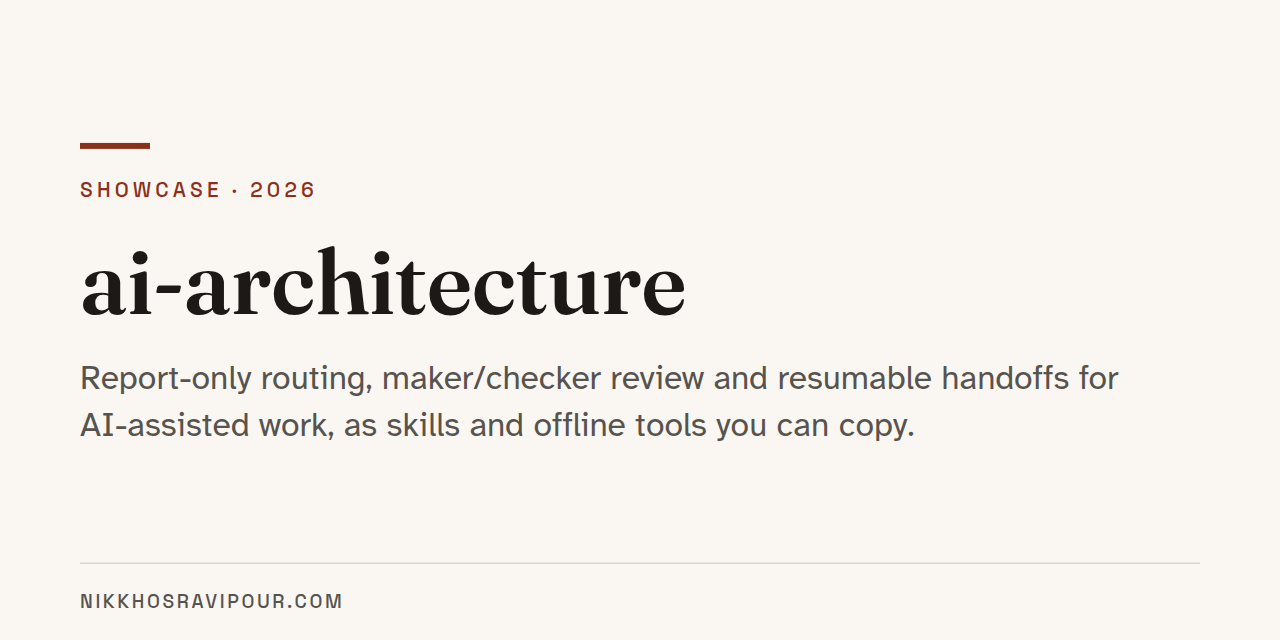
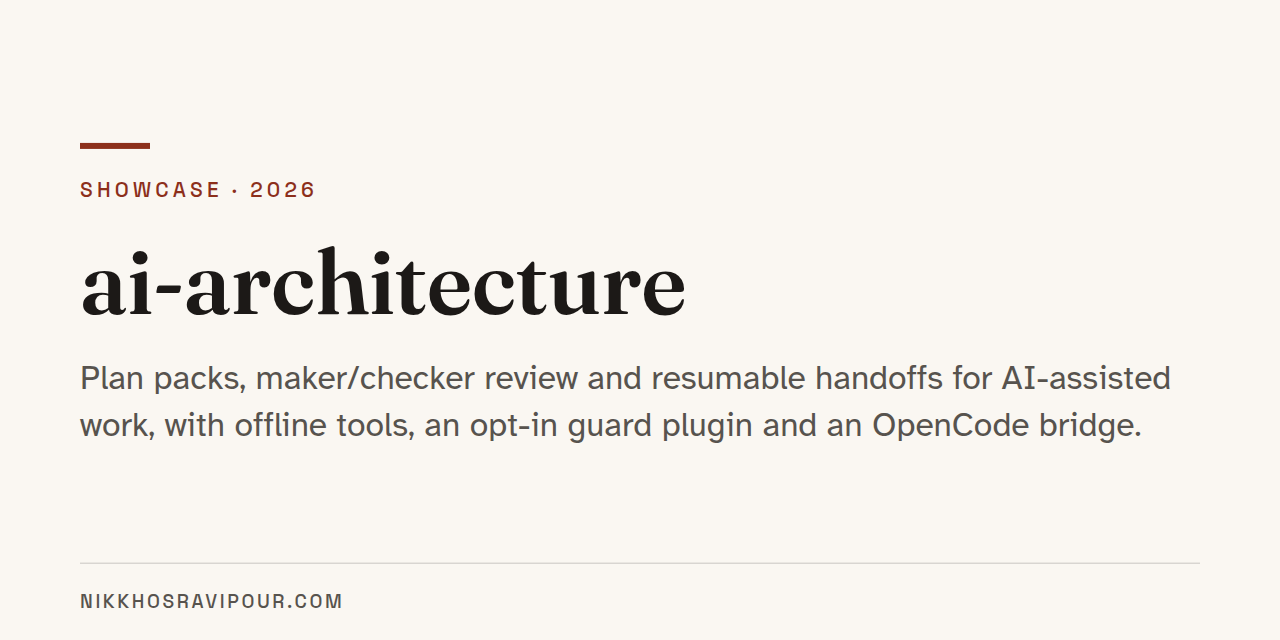
Publish AI Architecture Collection 0.4.1 preview

Changed region(s): [[0.0625, 0.5625, 0.9375, 0.6875]]

diff --git a/plugins/gates/hooks/lib/gates_config.py b/plugins/gates/hooks/lib/gates_config.py
@@ -19,8 +19,10 @@ defaults for everything and records the problem under the "_config_error" key; e
 reports it (the destructive guard denies each Bash call until the file is fixed). A missing
 override file is normal and means "defaults".
 
-The override path must name a regular file (checked with stat, following symlinks): a FIFO,
-device or /dev/stdin is refused as an invalid config, so it cannot swallow the hook payload.
+The override path must name a regular file (checked with stat, following symlinks): a FIFO or
+device is refused as an invalid config. A path that is, or whose final component symlinks to, /dev/std*, /dev/fd/*,
+/proc/<pid>/fd/* or /proc/self/* is refused (checked on the raw path and along the final component's symlink chain, not
+only after realpath), so it cannot swallow the hook payload.
 Hooks read their stdin payload FIRST (init()), and only then load the config.
 
 An unknown top-level key (not starting with "_") is an invalid config too: a misspelled key
@@ -102,11 +104,28 @@ def user_config_path():
     return env
 
 
+_STREAM_RE = re.compile(r"/dev/std(?:in|out|err)\Z|/(?:proc/[^/]+(?:/task/[^/]+)?|dev)/fd(?:/|\Z)|/proc/self(?:/|\Z)|/proc/thread-self(?:/|\Z)")
+
+
+def _is_stream_path(path):
+    """True if the raw path, any hop of the final component's symlink chain, or the final realpath names a standard stream
+    or fd entry (/dev/std*, /dev/fd/*, /proc/<pid>/fd/*, /proc/self/*). realpath alone is not enough:
+    /dev/stdin resolves to whatever file the fd currently points at."""
+    cur, seen = os.path.abspath(path), 0
+    while True:
+        if _STREAM_RE.match(cur) or _STREAM_RE.match(os.path.normpath(cur)):
+            return True
+        if not os.path.islink(cur) or seen > 40:
+            break
+        seen += 1
+        cur = os.path.abspath(os.path.join(os.path.dirname(cur), os.readlink(cur)))
+    return bool(_STREAM_RE.match(os.path.realpath(path)))
+
+
 def _read(path, required):
     """Returns (dict, error). A missing optional file is ({}, None)."""
-    real = os.path.realpath(path)
-    if real.startswith("/dev/std") or re.match(r"/(?:proc/[^/]+(?:/task/[^/]+)?|dev)/fd(?:/|$)", real):
-        return {}, f"config {path} invalid: refers to a standard stream or file descriptor \u2014 fix it"
+    if _is_stream_path(path):
+        return {}, f"config {path} refused: refers to a standard stream or file descriptor \u2014 fix it"
     try:
         st = os.stat(path)
     except FileNotFoundError:

diff --git a/plugins/gates/hooks/bash-destructive-guard.py b/plugins/gates/hooks/bash-destructive-guard.py
@@ -66,6 +66,8 @@ def heredoc_is_sink(prefix, suffix, nxt):
     if MSG_PREFIX_RE.match(prefix) and not suffix.strip(): return True
     return False
 
+class HeredocBackslash(Exception): pass
+
 def strip_heredocs(s):
     # Linear: one pass indexes every line that could terminate a heredoc (by stripped text), then
     # each opener bisects for its first terminator at/after the body start -- no per-opener rescan.
@@ -84,6 +86,11 @@ def strip_heredocs(s):
         j = idx[p]
         nxt = lines[j + 1] if j + 1 < len(lines) else ""
         if heredoc_is_sink(ln[:hd[0]], ln[hd[1]:], nxt):
+            # Unquoted delimiter: bash joins a body line ending in an odd number of backslashes with the
+            # next one before comparing it to the delimiter, so the real body end differs from ours.
+            if not re.search(r"[\"\x27\\]", ln[hd[0] + 2:hd[1]]):
+                for b in lines[i:j]:
+                    if (len(b) - len(b.rstrip("\\"))) % 2: raise HeredocBackslash()
             out.append(lines[j])
             i = j + 1
     return "\n".join(out)
@@ -709,7 +716,12 @@ def run():
         if _ln.endswith("\\") and "<<" in _ln and find_heredoc(_ln):
             emit("deny", "heredoc opener line ends in a backslash (line continuation); the guard cannot parse it -- put the heredoc on one line", cmd)
             return
-    stripped = re.sub(r"\n\s*", "\n", strip_heredocs(cmd))  # collapse newline runs: CMDPOS regexes are quadratic on them
+    try:
+        _sh = strip_heredocs(cmd)
+    except HeredocBackslash:
+        emit("deny", "heredoc body line ends in a backslash (line continuation before the delimiter); the guard cannot parse it -- quote the delimiter or avoid the trailing backslash", cmd)
+        return
+    stripped = re.sub(r"\n\s*", "\n", _sh)  # collapse newline runs: CMDPOS regexes are quadratic on them
     # Line continuations (\<newline>) join into the same command; any OTHER newline is a real
     # command separator (same as ";") and is kept so CMDPOS below still recognizes it.
     joined = re.sub(r"\\\n", " ", deescape(pre_normalize(stripped)))

diff --git a/plugins/gates/tests/run_config_scope.py b/plugins/gates/tests/run_config_scope.py
@@ -181,8 +181,14 @@ for hook, kind in ALL:
 # N2: AIARCH_CONFIG=/dev/stdin must fail closed (the wrapper's stdin is a payload temp file, so it parses as a config with unknown keys).
 j, rc = run_hook("bash-destructive-guard.sh", json.dumps({"tool_name": "Bash", "tool_input": {"command": "ls"}, "cwd": proj}),
                  {"AIARCH_CONFIG": "/dev/stdin"})
-check("N2 AIARCH_CONFIG=/dev/stdin: destructive guard denies as invalid config",
-      (verdict(j), "invalid" in json.dumps(j)), ("deny", True))
+check("N2 AIARCH_CONFIG=/dev/stdin: destructive guard denies as refused (raw-path check)",
+      (verdict(j), "refused" in json.dumps(j)), ("deny", True))
+lnk = os.path.join(tempfile.mkdtemp(), "cfg.lnk")
+os.symlink("/dev/stdin", lnk)
+j, rc = run_hook("bash-destructive-guard.sh", json.dumps({"tool_name": "Bash", "tool_input": {"command": "ls"}, "cwd": proj}),
+                 {"AIARCH_CONFIG": lnk})
+check("N2 AIARCH_CONFIG=symlink->/dev/stdin: denied as refused (symlink-hop check)",
+      (verdict(j), "refused" in json.dumps(j)), ("deny", True))
 fifo = os.path.join(tempfile.mkdtemp(), "cfg.fifo")
 os.mkfifo(fifo)
 j, rc = run_hook("review-stop-gate.py", json.dumps({"stop_hook_active": False}), {"AIARCH_CONFIG": fifo})

diff --git a/tests/test_collection.py b/tests/test_collection.py
@@ -193,7 +193,7 @@ class CollectionTests(unittest.TestCase):
 
     def test_manifest_bad_version(self):
         self.corrupt(
-            ".claude-plugin/plugin.json", "0.4.0-preview", "nonsense", "name/version"
+            ".claude-plugin/plugin.json", "0.4.1-preview", "nonsense", "name/version"
         )
 
     def test_manifest_duplicate_key(self):

diff --git a/scripts/check_collection.py b/scripts/check_collection.py
@@ -73,7 +73,7 @@ ROOT_DIRS = {
 }
 HOME_MARK = "/" + "home" + "/"  # built at runtime so the privacy scan stays clean
 STATES = {"verbatim", "adapted", "re-authored"}
-VERSION = "0.4.0-preview"
+VERSION = "0.4.1-preview"
 
 
 def fail(message):

diff --git a/COVERAGE.md b/COVERAGE.md
@@ -33,7 +33,7 @@ certify the rest of the repository.
 
 
 Execution observations on a local Linux test host, 2026-10-16, for release
-`0.4.0-preview`.
+`0.4.1-preview`.
 These are deterministic checks, not evidence of agent performance or benefits.
 
 All runtime commands below were executed from the collection root.
@@ -52,7 +52,7 @@ strict validator also used the absolute equivalents.
 | Adapter sources | Preparation review supplied official documentation observations dated 2026-10-14; links in adapters | Those pages were not re-fetched for this release. Documentation retrieval is not native behavior verification. |
 | Memory-check fixture | `python3 -B skills/discovery/scripts/test_memory_check.py`: 9 tests, OK (temporary explicit-root clean, drift, incomplete, sorting, strict, immutability, copied-bundle, malformed-link, and symlink-hop cases) | Report-only portable fixture observation. Symlink-hop instrumentation observed no descendant outside-root `lstat`/open for index, wikilink, or configured-path references; this is not a sandbox or race-proof claim. No native memory runtime, index repair, global scan, or gate is ported. |
 | Loop-check fixture | `python3 -B skills/maintenance/scripts/test_loop_check.py`: focused explicit-snapshot tests | Authored JSON only: validates all inventory rows, reports checked/info/drift/unavailable/skipped, and reads no referenced files. `complete` describes snapshot coverage only, not scheduler health, freshness, installation, or live proof. No host probes, scheduling, or remediation are ported. |
-| Gates plugin (opt-in hooks) | `bash plugins/gates/tests/run.sh`: 154 destructive-guard cases, 57 hook tests, 80 configuration-scope tests, 0 failed | Bash test runner replaying recorded hook payloads and transcript fixtures with an empty `HOME`, including a project-level config that tries to loosen a gate. It does not run Claude Code itself: hook payload and transcript formats are as recorded, and a Claude Code update may change them. Static text analysis of commands is a tripwire, not a sandbox. |
+| Gates plugin (opt-in hooks) | `bash plugins/gates/tests/run.sh`: 156 destructive-guard cases, 57 hook tests, 81 configuration-scope tests, 0 failed | Bash test runner replaying recorded hook payloads and transcript fixtures with an empty `HOME`, including a project-level config that tries to loosen a gate. It does not run Claude Code itself: hook payload and transcript formats are as recorded, and a Claude Code update may change them. Static text analysis of commands is a tripwire, not a sandbox. |
 | OpenCode bridge | `bash opencode/tests/run.sh`: agent-generator golden test plus 29 bridge tests under `bun` | The bridge spawns the real gates hooks, including a denied destructive command, symlink and `..` refusals, fail-closed behaviour on a crashed or unreadable hook list, and a Bash classifier allow-list check. The Bash structural check is tested against a **stub parser**: the real `web-tree-sitter` and `tree-sitter-bash` packages are not exercised. Not run against a live OpenCode session. Without `bun` that part prints `NOT RUN`. |
 | Model rotation (opt-in) | `bash opencode/rotation/tests/run.sh`: Claude Code hook tests and the OpenCode module tests, 0 failed (the OpenCode module half runs only with `bun`; without it the runner prints `NOT RUN` for that half) | Seeded weighted draws, fail-safe on invalid pools, no unlisted model ever produced. Rotation is off until you enable it; no quality benefit of rotating models is claimed. |
 | Tools | `plancheck` 19, `gate-check` 8, `memcheck` 48, `loop-sync` 26, `tribunal-scribe` 13 checks, 0 failed (each tool's own test runner) | Fixture-based, offline, Linux. |

diff --git a/README.md b/README.md
@@ -4,7 +4,7 @@
 
 [Install](INSTALL.md) · [Catalog](CATALOG.md) · [Architecture](ARCHITECTURE.md) · [How it works](#how-the-system-works) · [Site](https://nikkhosravipour.com)
 
-[![License: MIT](https://img.shields.io/badge/license-MIT-8c2f1b?style=flat)](LICENSE) [![Docs: CC BY 4.0](https://img.shields.io/badge/docs-CC%20BY%204.0-57534e?style=flat)](LICENSE-docs) [![Version](https://img.shields.io/badge/version-0.4.0--preview-57534e?style=flat)](CHANGELOG.md)
+[![License: MIT](https://img.shields.io/badge/license-MIT-8c2f1b?style=flat)](LICENSE) [![Docs: CC BY 4.0](https://img.shields.io/badge/docs-CC%20BY%204.0-57534e?style=flat)](LICENSE-docs) [![Version](https://img.shields.io/badge/version-0.4.1--preview-57534e?style=flat)](CHANGELOG.md)
 
 I run most of my software and research work through coding agents. Left alone, they drift: the scope widens,
 the agent grades its own homework, a destructive command slips through, and everything it knew dies when the
@@ -17,8 +17,8 @@ flowchart LR
   B --> C["Check<br/>fresh verifier · tribunal<br/>security review"]
   C --> H["Hand off<br/>tracker Resume + Next"]
   H --> P
-  G["Guards (hooks)<br/>destructive commands · model rules<br/>review-before-stop · tracker check"] -. enforce .- B
-  G -. enforce .- C
+  G["Guards (hooks)<br/>destructive commands · model rules<br/>review-before-stop · tracker check"] -. checks .- B
+  G -. checks .- C
 ```
 
 ## How the system works
@@ -42,7 +42,7 @@ changes also get a `security-reviewer` and a **tribunal**: three or more judges 
 sealed, then argue in a shared transcript until they stop finding things. A `refuter` tries to disprove each
 finding before anyone acts on it.
 
-**5. Guards make the rules real.** An opt-in hook plugin is a best-effort tripwire against accidental destructive shell commands (not a security boundary; see its Known limitations), stops a session from
+**5. Guards catch common mistakes.** An opt-in hook plugin is a best-effort tripwire against accidental destructive shell commands (not a security boundary; see its Known limitations), stops a session from
 ending while a required review is missing, and nudges once when a session ends with a tracker that has no current Resume
 block.
 

diff --git a/CHANGELOG.md b/CHANGELOG.md
@@ -1,5 +1,14 @@
 # Changelog
 
+## 0.4.1-preview — 2026-10-16
+
+- Social preview image regenerated with the current tagline (plan packs, maker/checker review, resumable handoffs, offline tools, opt-in guard plugin, OpenCode bridge); the README banners were unchanged.
+- Gates plugin, destructive-command guard: an unquoted-delimiter heredoc whose body has a line ending in an odd number of backslashes is now denied, because bash joins that line with the next one before looking for the delimiter and the guard cannot follow that.
+- Gates plugin, configuration: `AIARCH_CONFIG` is refused when the raw path, any hop of its final component's symlink chain, or the resolved path is `/dev/std*`, `/dev/fd/*`, `/proc/<pid>/fd/*` or `/proc/self/*` (previously only the resolved path was checked, so `/dev/stdin` was not caught). The docstring now matches.
+- Gates plugin, hook wrapper script: the payload copy is opened read-write and unlinked before any data is written, then read back through `/dev/fd/3`, which narrows (does not fully close) the window in which another process of the same user could swap the temp file.
+- README and ARCHITECTURE wording now says guards catch common mistakes and "check" rather than "enforce", consistent with the best-effort tripwire framing.
+- Version bumped to `0.4.1-preview` in the manifests, marketplace, citation file and install guide; the gates test counts in COVERAGE are updated (156 destructive-guard cases, 81 configuration-scope tests).
+
 ## 0.4.0-preview — 2026-10-16
 
 - README and ARCHITECTURE now tour the whole system: plan packs, parallel builds, maker/checker review and tribunal, guard hooks, handoffs, two harnesses, maintenance loops.

diff --git a/WORKFLOWS.md b/WORKFLOWS.md
@@ -163,11 +163,11 @@ offline tools in a fresh temporary project and demonstrates only a fixed, litera
 Next. Its inputs are authored fixtures, not a recipient's real project or an
 AI builder/checker transcript.
 
-## Where the rules are enforced
+## Where the rules are checked
 
-Most of the steps above are instructions an agent follows. Three pieces make some of them real, and only if
-you install them: the [gates plugin](plugins/gates/README.md) (hooks that block destructive commands and
-unreviewed or unrecorded stops), the [OpenCode bridge](opencode/README.md) (the same hooks inside OpenCode)
+Most of the steps above are instructions an agent follows. Three pieces check some of them, and only if
+you install them: the [gates plugin](plugins/gates/README.md) (best-effort hooks that catch common destructive commands and
+unreviewed or unrecorded stops; a tripwire, not a security boundary), the [OpenCode bridge](opencode/README.md) (the same hooks inside OpenCode)
 and opt-in [model rotation](opencode/rotation/README.md). [INSTALL.md](INSTALL.md) says how to turn each on and
 off. Everything else here stays described.
 

diff --git a/ARCHITECTURE.md b/ARCHITECTURE.md
@@ -52,8 +52,8 @@ flowchart TB
   Exec --> Rev
   Rev --> TR
   TR --> RS
-  Guard -. enforce .- Exec
-  Guard -. enforce .- Rev
+  Guard -. checks .- Exec
+  Guard -. checks .- Rev
   Harness --- Exec
   Loops -. report on .- Plan
   Loops -. report on .- Cont
@@ -69,7 +69,7 @@ builder and critic pair.
 Routing is a table, not a mood. A request is classified by task kind and by stakes, and the table says which
 role handles it and what review it owes. A decided, non-UI change goes to the implementer. High-stakes
 changes (cryptography, migrations, concurrency, authorization, money, security boundaries) add a
-security review and a tribunal. Hooks enforce the table where a prompt alone would be forgotten (see
+security review and a tribunal. Hooks check the table where a prompt alone would be forgotten (see
 [section 5](#5-guards)).
 
 In this repo: [`rules/dispatch-router.md`](rules/dispatch-router.md),

diff --git a/INSTALL.md b/INSTALL.md
@@ -1,6 +1,6 @@
 # Install
 
-This release is `0.4.0-preview`. There are three separate things you can install, and only the first
+This release is `0.4.1-preview`. There are three separate things you can install, and only the first
 is on by default in the sense that it adds instructions rather than behaviour. What each capability does and
 does not cover is in [CAPABILITIES.md](CAPABILITIES.md); what has been tested is in [COVERAGE.md](COVERAGE.md).
 
